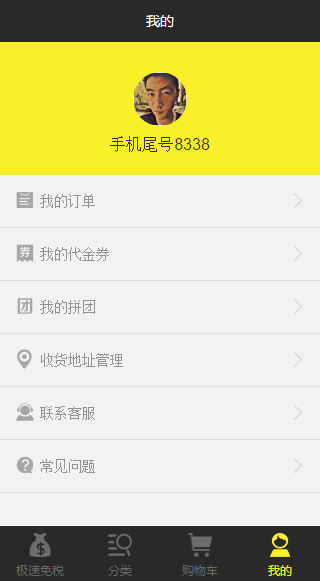
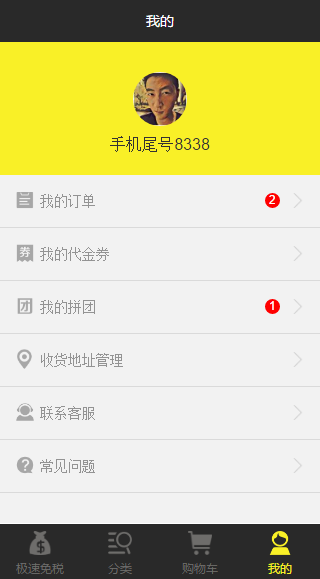
“my”页面添加未读计数提示

diff --git a/pages/my/index.js b/pages/my/index.js
@@ -6,13 +6,19 @@ Page( {
     projectSource: 'https://github.com/liuxuanqiang/wechat-weapp-mall',
     userListInfo: [ {
       icon: '../../images/iconfont-dingdan.png',
-      text: '我的订单'
+      text: '我的订单',
+      isunread: true,
+      unreadNum: 2
     }, {
         icon: '../../images/iconfont-card.png',
-        text: '我的代金券'
+        text: '我的代金券',
+        isunread: false,
+        unreadNum: 2
       }, {
         icon: '../../images/iconfont-icontuan.png',
-        text: '我的拼团'
+        text: '我的拼团',
+        isunread: true,
+        unreadNum: 1
       }, {
         icon: '../../images/iconfont-shouhuodizhi.png',
         text: '收货地址管理'
